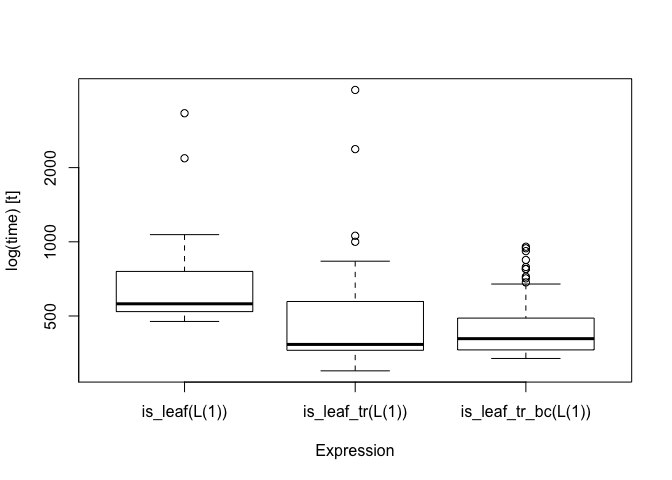
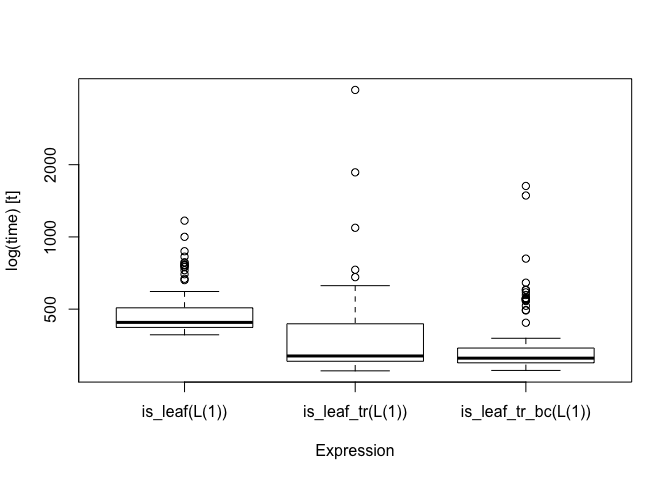
Bumped version

diff --git a/README.md b/README.md
@@ -7,8 +7,8 @@
 [![lifecycle](http://img.shields.io/badge/lifecycle-maturing-blue.svg)](https://www.tidyverse.org/lifecycle/#maturing)
 [![Project Status:
 Active](http://www.repostatus.org/badges/latest/active.svg)](http://www.repostatus.org/#active)
-[![Last-changedate](https://img.shields.io/badge/last%20change-2018--03--18-green.svg)](/commits/master)
-[![packageversion](https://img.shields.io/badge/Package%20version-0.1.2.9002-green.svg?style=flat-square)](commits/master)
+[![Last-changedate](https://img.shields.io/badge/last%20change-2018--03--20-green.svg)](/commits/master)
+[![packageversion](https://img.shields.io/badge/Package%20version-0.1.2.9003-green.svg?style=flat-square)](commits/master)
 
 [![Travis-CI Build
 Status](http://travis-ci.org/mailund/pmatch.svg?branch=master)](https://travis-ci.org/mailund/pmatch)
@@ -308,10 +308,10 @@ bm <- microbenchmark::microbenchmark(
 )
 bm
 #> Unit: microseconds
-#>                 expr     min       lq     mean   median       uq      max
-#>        is_leaf(L(1)) 475.090 520.8655 675.0437 560.2625 758.2160 3324.382
-#>     is_leaf_tr(L(1)) 299.463 362.8915 515.9576 383.3000 572.5210 4131.983
-#>  is_leaf_tr_bc(L(1)) 336.190 364.1810 465.4426 404.5345 490.2135  955.000
+#>                 expr     min       lq     mean   median      uq      max
+#>        is_leaf(L(1)) 390.889 419.5595 497.9809 440.2480 506.336 1168.877
+#>     is_leaf_tr(L(1)) 276.557 303.1960 429.8333 318.9865 434.400 4097.574
+#>  is_leaf_tr_bc(L(1)) 277.653 298.6635 382.4473 312.3535 344.198 1630.556
 #>  neval
 #>    100
 #>    100
